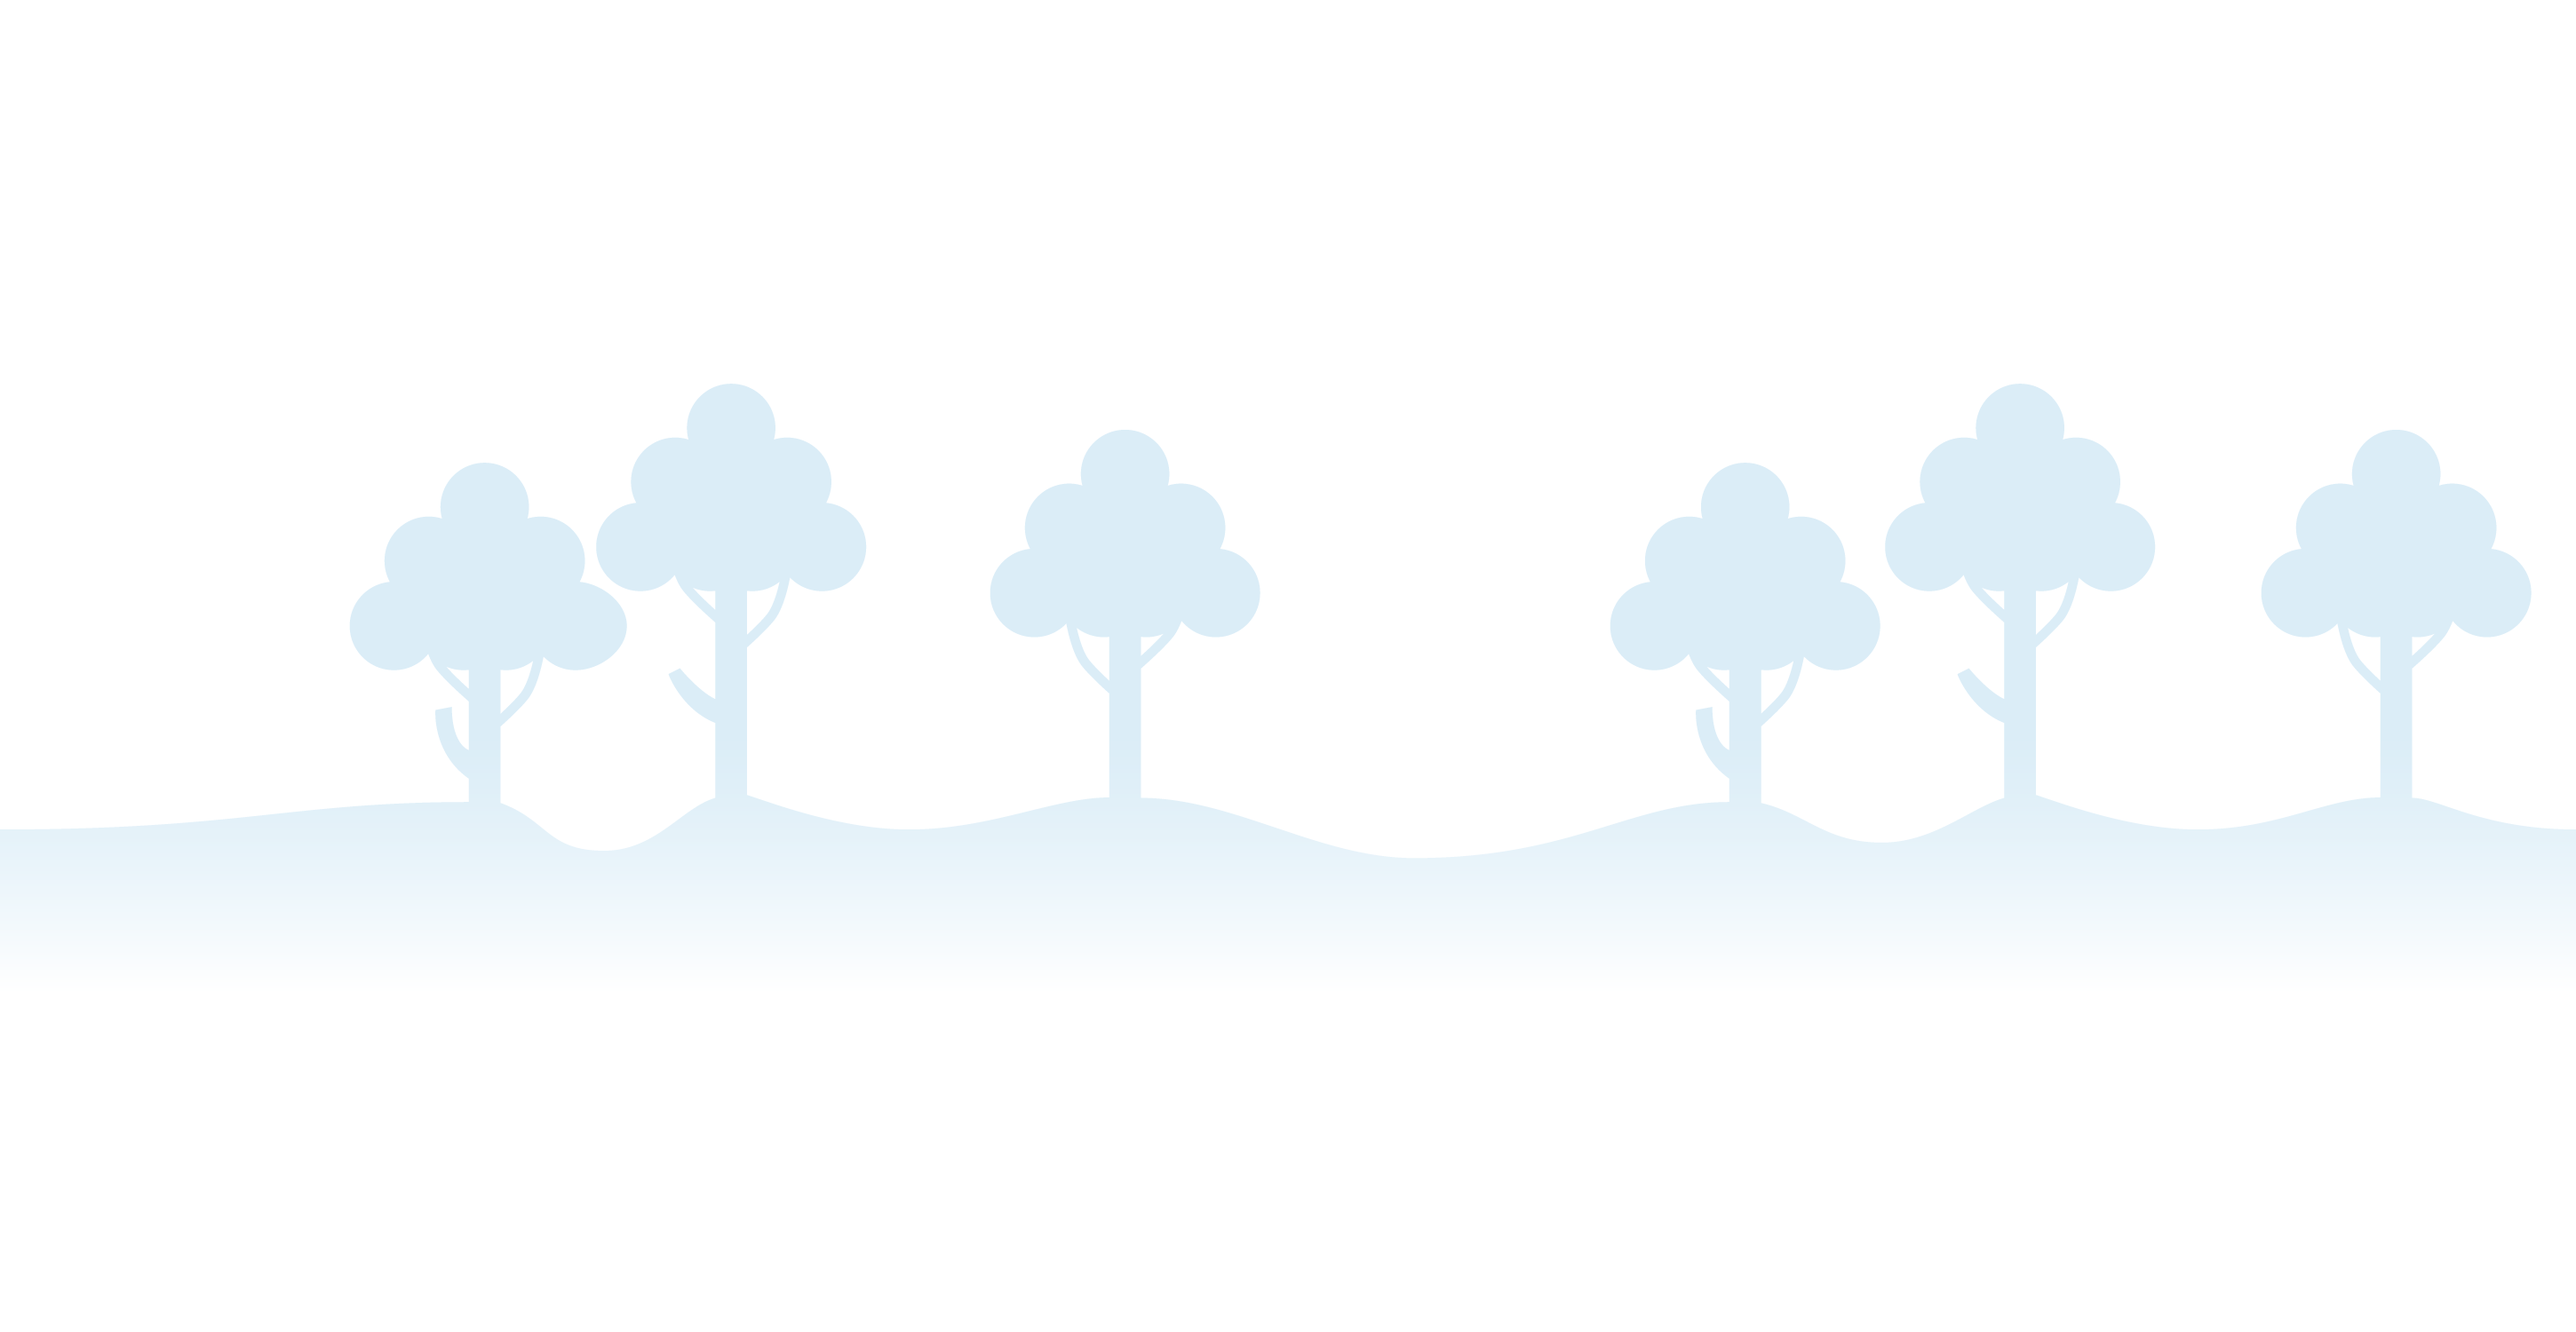
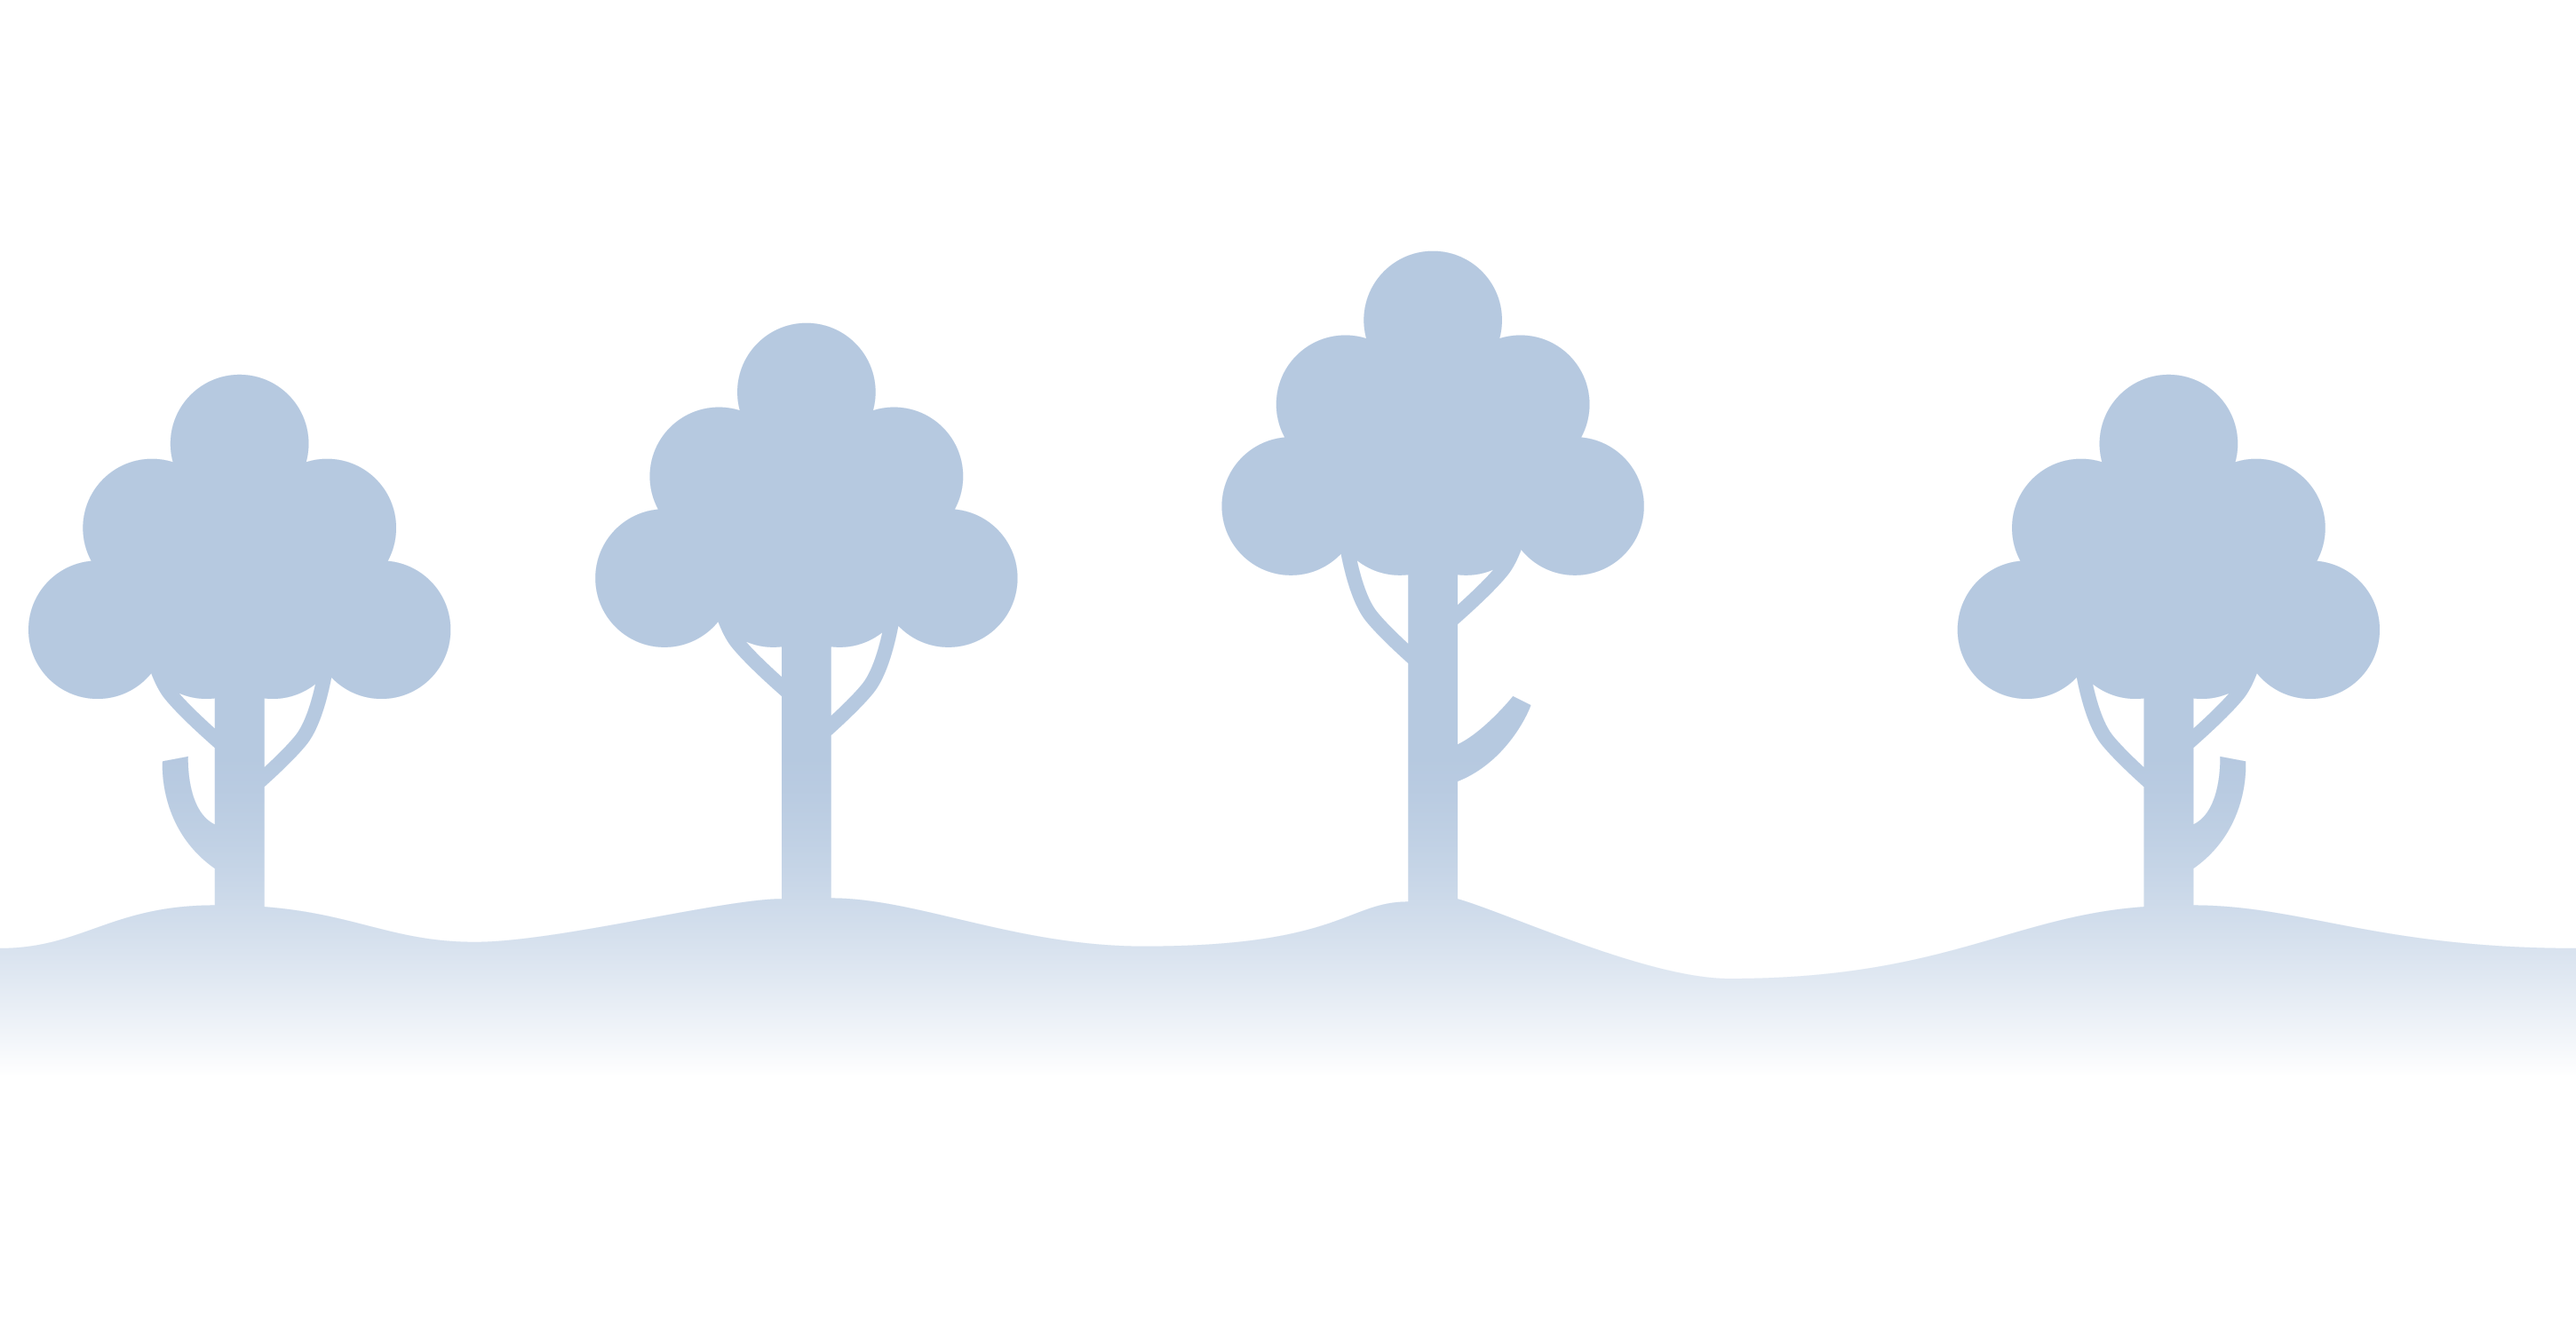
Added an image scaler that scales the backgrounds to the view size

Changed region(s): [[0.0, 0.184, 1.0, 0.7667]]

diff --git a/src/models/Background.java b/src/models/Background.java
@@ -1,5 +1,7 @@
 package models;
 
+import java.awt.geom.AffineTransform;
+import java.awt.image.AffineTransformOp;
 import java.awt.image.BufferedImage;
 import java.io.File;
 import java.io.IOException;
@@ -33,19 +35,20 @@ public class Background extends GameModel {
 	
 	@Override
 	protected void setSpriteImage() {
-		BufferedImage spriteImageToUse = null;
+		BufferedImage nonScaledSpriteImageToUse = null;
 		
     	File backgroundImageFile = new File("./Graphics/Backgrounds/AirBackground/b" + backgroundLayerIndex + ".png");
 		try {			
 			if(backgroundImageFile.exists() == true){
-				spriteImageToUse = ImageIO.read(backgroundImageFile);
+				nonScaledSpriteImageToUse = ImageIO.read(backgroundImageFile);
 			}
 		}
 		catch (IOException e) {
 			e.printStackTrace();
 		}
 		
-		this.setSpriteImage(spriteImageToUse);
+		BufferedImage scaledSpriteImageToUse = ImageScaler.scaleImageToViewSize(nonScaledSpriteImageToUse);
+		this.setSpriteImage(scaledSpriteImageToUse);
 		
 	}
 	

diff --git a/src/models/ImageScaler.java b/src/models/ImageScaler.java
@@ -1,0 +1,30 @@
+package models;
+
+import java.awt.geom.AffineTransform;
+import java.awt.image.AffineTransformOp;
+import java.awt.image.BufferedImage;
+
+import controller.Settings;
+
+public class ImageScaler {
+	
+	
+	public ImageScaler() {
+	}
+	
+	public static BufferedImage scaleImageToViewSize(BufferedImage nonScaledImage) {
+		
+		BufferedImage scaledImage = new BufferedImage(nonScaledImage.getWidth(), nonScaledImage.getHeight(), BufferedImage.TYPE_INT_ARGB);
+		AffineTransform affineTransform = new AffineTransform();
+
+		affineTransform.scale(((float) Settings.getViewDimensionXDefault()) / ((float) nonScaledImage.getWidth()),
+				((float) Settings.getViewDimensionYDefault()) / ((float) nonScaledImage.getHeight()));
+
+		AffineTransformOp scaleOP = new AffineTransformOp(affineTransform, AffineTransformOp.TYPE_BILINEAR);
+		scaledImage = scaleOP.filter(nonScaledImage, scaledImage);
+
+		return scaledImage;
+		
+	}
+	
+}

diff --git a/src/views/GameOverView.java b/src/views/GameOverView.java
@@ -12,7 +12,7 @@ import controller.Settings;
 public class GameOverView extends JFrame {
 
 	public GameOverView() {
-		this.setBounds(0,0,Settings.getViewDimensionDefault(), Settings.getViewDimensionDefault());
+		this.setBounds(0,0,Settings.getViewDimensionXDefault(), Settings.getViewDimensionYDefault());
 		this.setContentPane(new GameOverPanel());
 		this.setVisible(false);
 		setDefaultCloseOperation(JFrame.EXIT_ON_CLOSE);
@@ -23,7 +23,7 @@ public class GameOverView extends JFrame {
 			JLabel gameOverLabel = new JLabel("GAME OVER");
 			gameOverLabel.setSize(100,100);
 			this.add(gameOverLabel);
-			this.setBounds(0,0,Settings.getViewDimensionDefault(), Settings.getViewDimensionDefault());
+			this.setBounds(0,0,Settings.getViewDimensionXDefault(), Settings.getViewDimensionYDefault());
 		}
 	}
 }

diff --git a/src/views/BackgroundLayeredPane.java b/src/views/BackgroundLayeredPane.java
@@ -12,12 +12,11 @@ public class BackgroundLayeredPane extends JLayeredPane {
 	private ArrayList<BackgroundComponent> backgroundComponents;
 	
 	public BackgroundLayeredPane(ArrayList<Background> backgroundModels) {
-		int mainFrameDimension = Settings.getViewDimensionDefault();
 		
 		backgroundComponents = new ArrayList<BackgroundComponent>();
 		BackgroundComponent backgroundComponentToAdd = null;
 		
-		this.setBounds(0, 0, mainFrameDimension, mainFrameDimension);
+		this.setBounds(0, 0, Settings.getViewDimensionXDefault(), Settings.getViewDimensionYDefault());
 		
 		for (int backgroundModelIndex = 0; backgroundModelIndex < backgroundModels.size(); backgroundModelIndex++) {
 			

diff --git a/src/views/View.java b/src/views/View.java
@@ -15,9 +15,8 @@ public class View extends JFrame {
 	
 	public View(Player playerModel, ArrayList<Background> backgroundModels, Controller controller, ArrayList<Interactable> interactableModels) {
 
-		this.setBounds(0,0,Settings.getViewDimensionDefault(), Settings.getViewDimensionDefault());
+		this.setBounds(0,0,Settings.getViewDimensionXDefault(), Settings.getViewDimensionYDefault());
 		mainLayeredPane = new MainLayeredPane(playerModel, backgroundModels, controller, interactableModels);
-		
 		this.setContentPane(mainLayeredPane);
 		this.setVisible(true);
 		setDefaultCloseOperation(JFrame.EXIT_ON_CLOSE);

diff --git a/src/controller/Settings.java b/src/controller/Settings.java
@@ -33,8 +33,12 @@ public class Settings {
 		return Integer.parseInt(globalSettings.getProperty("numberOfBackgroundLayers"));	
 	}
 	
-	public static int getViewDimensionDefault() {
-		return Integer.parseInt(globalSettings.getProperty("viewDimension"));
+	public static int getViewDimensionXDefault() {
+		return Integer.parseInt(globalSettings.getProperty("viewDimensionX"));
+	}
+	
+	public static int getViewDimensionYDefault() {
+		return Integer.parseInt(globalSettings.getProperty("viewDimensionY"));
 	}
 	
 	public static int getBackgroundXPositionDefault(int backgroundLayerIndex) {

diff --git a/src/views/HUDPane.java b/src/views/HUDPane.java
@@ -18,10 +18,8 @@ public class HUDPane extends JPanel{
 	
 	public HUDPane(Player playerModel) {
 		this.playerModel = playerModel;
-		
-		int mainFrameDimension = Settings.getViewDimensionDefault();
-		
-		this.setBounds(0, 0, mainFrameDimension, mainFrameDimension);
+				
+		this.setBounds(0, 0, Settings.getViewDimensionXDefault(), Settings.getViewDimensionYDefault());
 		
 		this.healthLabel = new JLabel("HEALTH: " + this.playerModel.getHealth());
 		this.scoreLabel = new JLabel("SCORE: " + this.playerModel.getScore());

diff --git a/src/views/BackgroundComponent.java b/src/views/BackgroundComponent.java
@@ -10,12 +10,9 @@ import models.Background;
 public class BackgroundComponent extends JComponent{
 	
 	private Background backgroundModel;
-	private int mainFrameDimension;
 	
 	BackgroundComponent(Background backgroundModel){
-		
-		this.mainFrameDimension = Settings.getViewDimensionDefault();
-		this.setBounds(0,0,mainFrameDimension,mainFrameDimension);
+		this.setBounds(0,0,Settings.getViewDimensionXDefault(),Settings.getViewDimensionYDefault());
 		this.backgroundModel = backgroundModel;
 		this.setVisible(true);
 	}

diff --git a/src/controller/GameWrapper.java b/src/controller/GameWrapper.java
@@ -3,6 +3,7 @@ package controller;
 import java.util.ArrayList;
 
 import models.Background;
+import models.ImageScaler;
 import models.Interactable;
 import models.NonLandAnimal;
 import models.Player;
@@ -19,6 +20,7 @@ public class GameWrapper {
 	
 	private static void setUpGame() {
 		Settings settings = new Settings();
+		ImageScaler imageScaler = new ImageScaler();
 		
 		Player playerModel = new NonLandAnimal();
 		ArrayList<Background> backgroundModels = new ArrayList<Background>(generateBackgroundModels());

diff --git a/src/views/PlayerComponent.java b/src/views/PlayerComponent.java
@@ -19,7 +19,7 @@ class PlayerComponent extends JComponent{
 		
 		this.controller = controller;
 		this.playerModel = playerModel;
-		this.setBounds(playerModel.getXPosition(),playerModel.getYPosition(),Settings.getViewDimensionDefault(), Settings.getViewDimensionDefault());
+		this.setBounds(playerModel.getXPosition(),playerModel.getYPosition(),Settings.getViewDimensionXDefault(), Settings.getViewDimensionYDefault());
 		this.addMouseListener(new PlayerComponentMouseListener());
 		this.setVisible(true);
 	}

diff --git a/src/models/Interactable.java b/src/models/Interactable.java
@@ -19,7 +19,7 @@ public class Interactable extends GameModel {
 	
 	public Interactable(int activationTick) {
 		this.setxPosition(Settings.getInteractableStartXPosition());
-		this.setyPosition(random.nextInt(Settings.getViewDimensionDefault()));
+		this.setyPosition(random.nextInt(Settings.getViewDimensionYDefault()));
 		this.isFood = random.nextBoolean();
 		this.setSpeed(Settings.getInteractableSpeed());
 		this.activationTick = activationTick;

diff --git a/src/quizMiniGame/MiniGameView.java b/src/quizMiniGame/MiniGameView.java
@@ -20,7 +20,7 @@ public class MiniGameView extends JFrame {
 		this.miniGame = miniGame;
 		this.controller = controller;
 
-		this.setBounds(0,0,Settings.getViewDimensionDefault(), Settings.getViewDimensionDefault());
+		this.setBounds(0,0,Settings.getViewDimensionXDefault(), Settings.getViewDimensionYDefault());
 		this.setContentPane(new MiniGamePanel());
 		this.setVisible(false);
 		setDefaultCloseOperation(JFrame.EXIT_ON_CLOSE);
